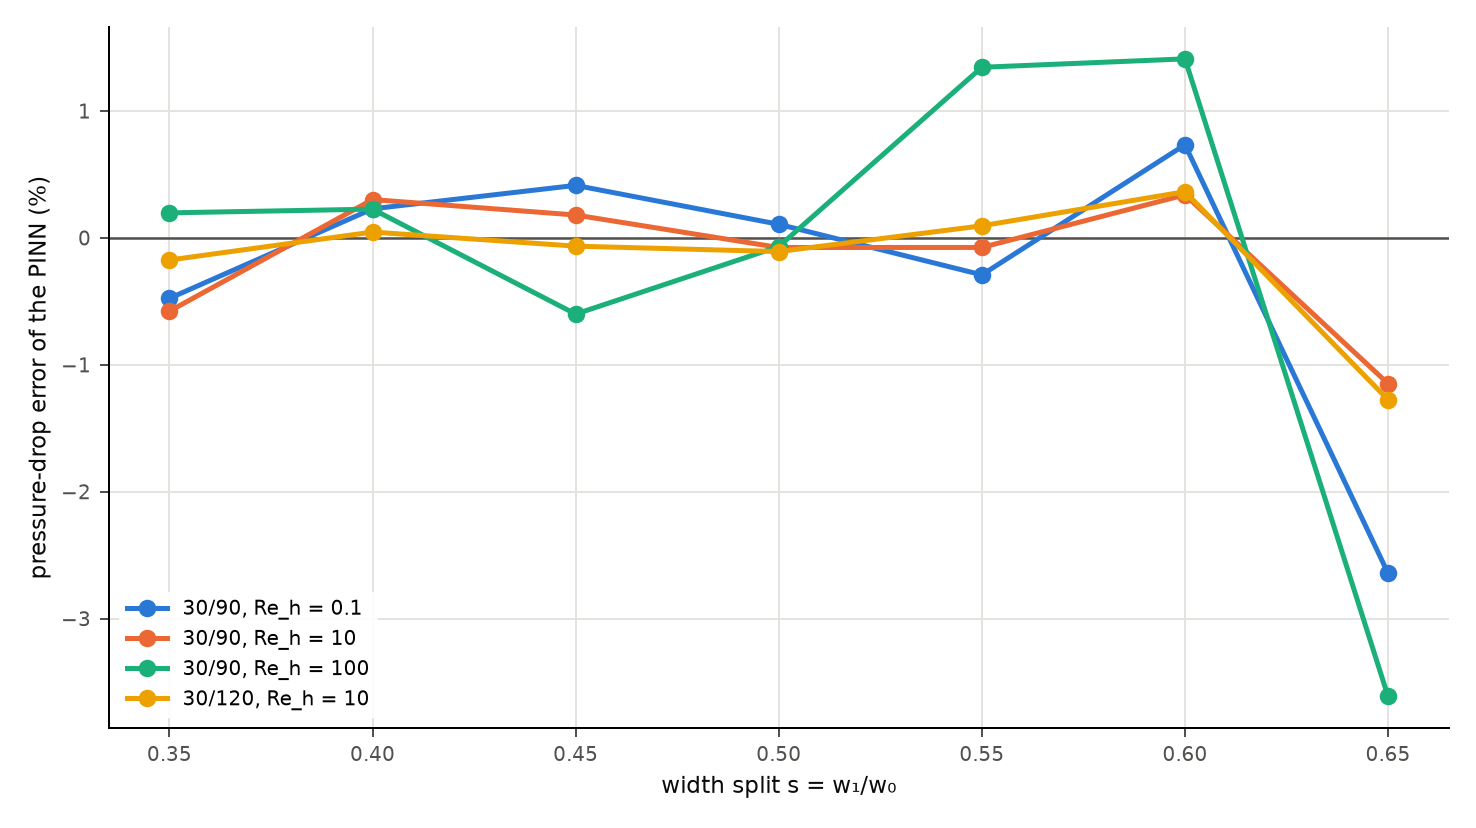
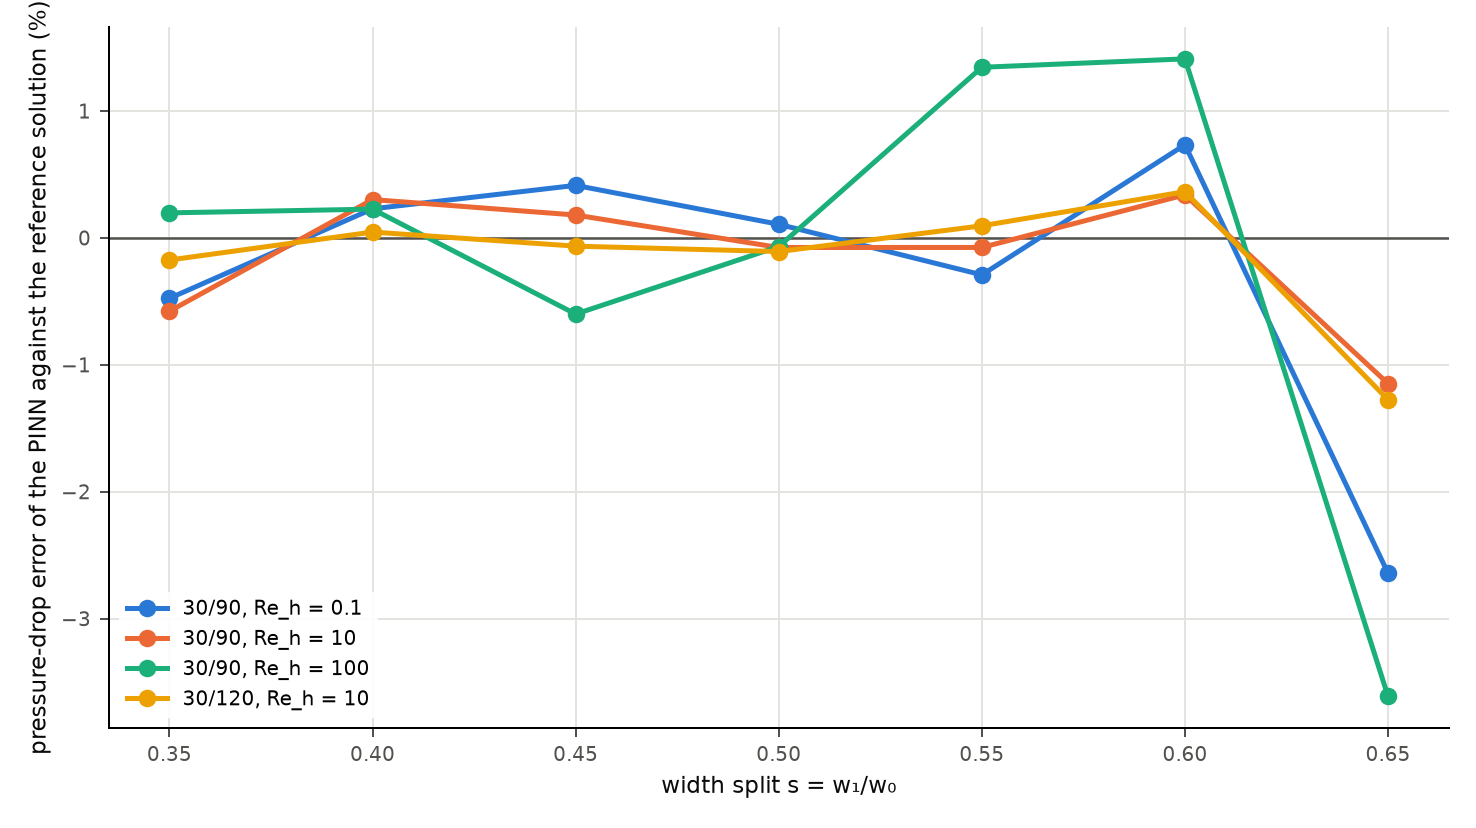
Study figures: 'reference solution' and 'reference optimum' instead of finite elements
Claude-Session: https://claude.ai/code/session_01AbTrWc9Te1W9eJvisv3vV1

Changed region(s): [[0.0, 0.1812, 0.0312, 0.9058], [0.0, 0.0604, 0.0312, 0.151], [0.0, 0.0, 0.0312, 0.0302]]

diff --git a/docs/re_study/figures.py b/docs/re_study/figures.py
@@ -2,7 +2,7 @@
 
     python docs/re_study/figures.py
 
-    fig_re_objective.png   J(s) from each finished PINN against finite elements
+    fig_re_objective.png   J(s) from each finished PINN against the reference solution
     fig_re_drop_error.png  the PINNs' signed pressure-drop error against s
     fig_re_training.png    held-out loss against training time
 Redraw as runs finish: every finished run's files are picked up.
@@ -58,11 +58,11 @@ def objective(all_runs):
         ax.plot(x, [float(row["J_pinn"]) for row in r["rows"]], color=BLUE, lw=2,
                 label="PINN, J(s) over 61 splits")
         fe = [(float(row["s"]), float(row["J_fe"])) for row in r["rows"] if row["J_fe"]]
-        ax.plot(*zip(*fe), "o", color=INK, ms=6, label="finite elements (reference mesh)")
+        ax.plot(*zip(*fe), "o", color=INK, ms=6, label="reference solution")
         ax.axvline(s["s_star_pinn"], color=BLUE, ls="--", lw=1.2,
                    label=f"PINN optimum {s['s_star_pinn']:.4f}")
         ax.axvline(s["s_star_reference_mesh_brent"], color=INK, ls=":", lw=1.4,
-                   label=f"FE optimum {s['s_star_reference_mesh_brent']:.4f}")
+                   label=f"reference optimum {s['s_star_reference_mesh_brent']:.4f}")
         units = "μU_c/h" if s["pressure_scaling"] == "viscous" else "ρU_c²"
         ax.set_title(r["label"], fontsize=10, color=INK, loc="left")
         ax.set_xlabel("width split s = w₁/w₀", fontsize=9, color=INK)
@@ -84,7 +84,7 @@ def drop_error(all_runs):
               for row in r["rows"] if row["J_fe"]]
         ax.plot(*zip(*fe), "o-", color=colour, lw=2, ms=6, label=r["label"])
     ax.set_xlabel("width split s = w₁/w₀", fontsize=9, color=INK)
-    ax.set_ylabel("pressure-drop error of the PINN (%)", fontsize=9, color=INK)
+    ax.set_ylabel("pressure-drop error of the PINN against the reference solution (%)", fontsize=9, color=INK)
     ax.legend(fontsize=8, loc="lower left", framealpha=0.92, edgecolor="none")
     style(ax)
     fig.tight_layout()
